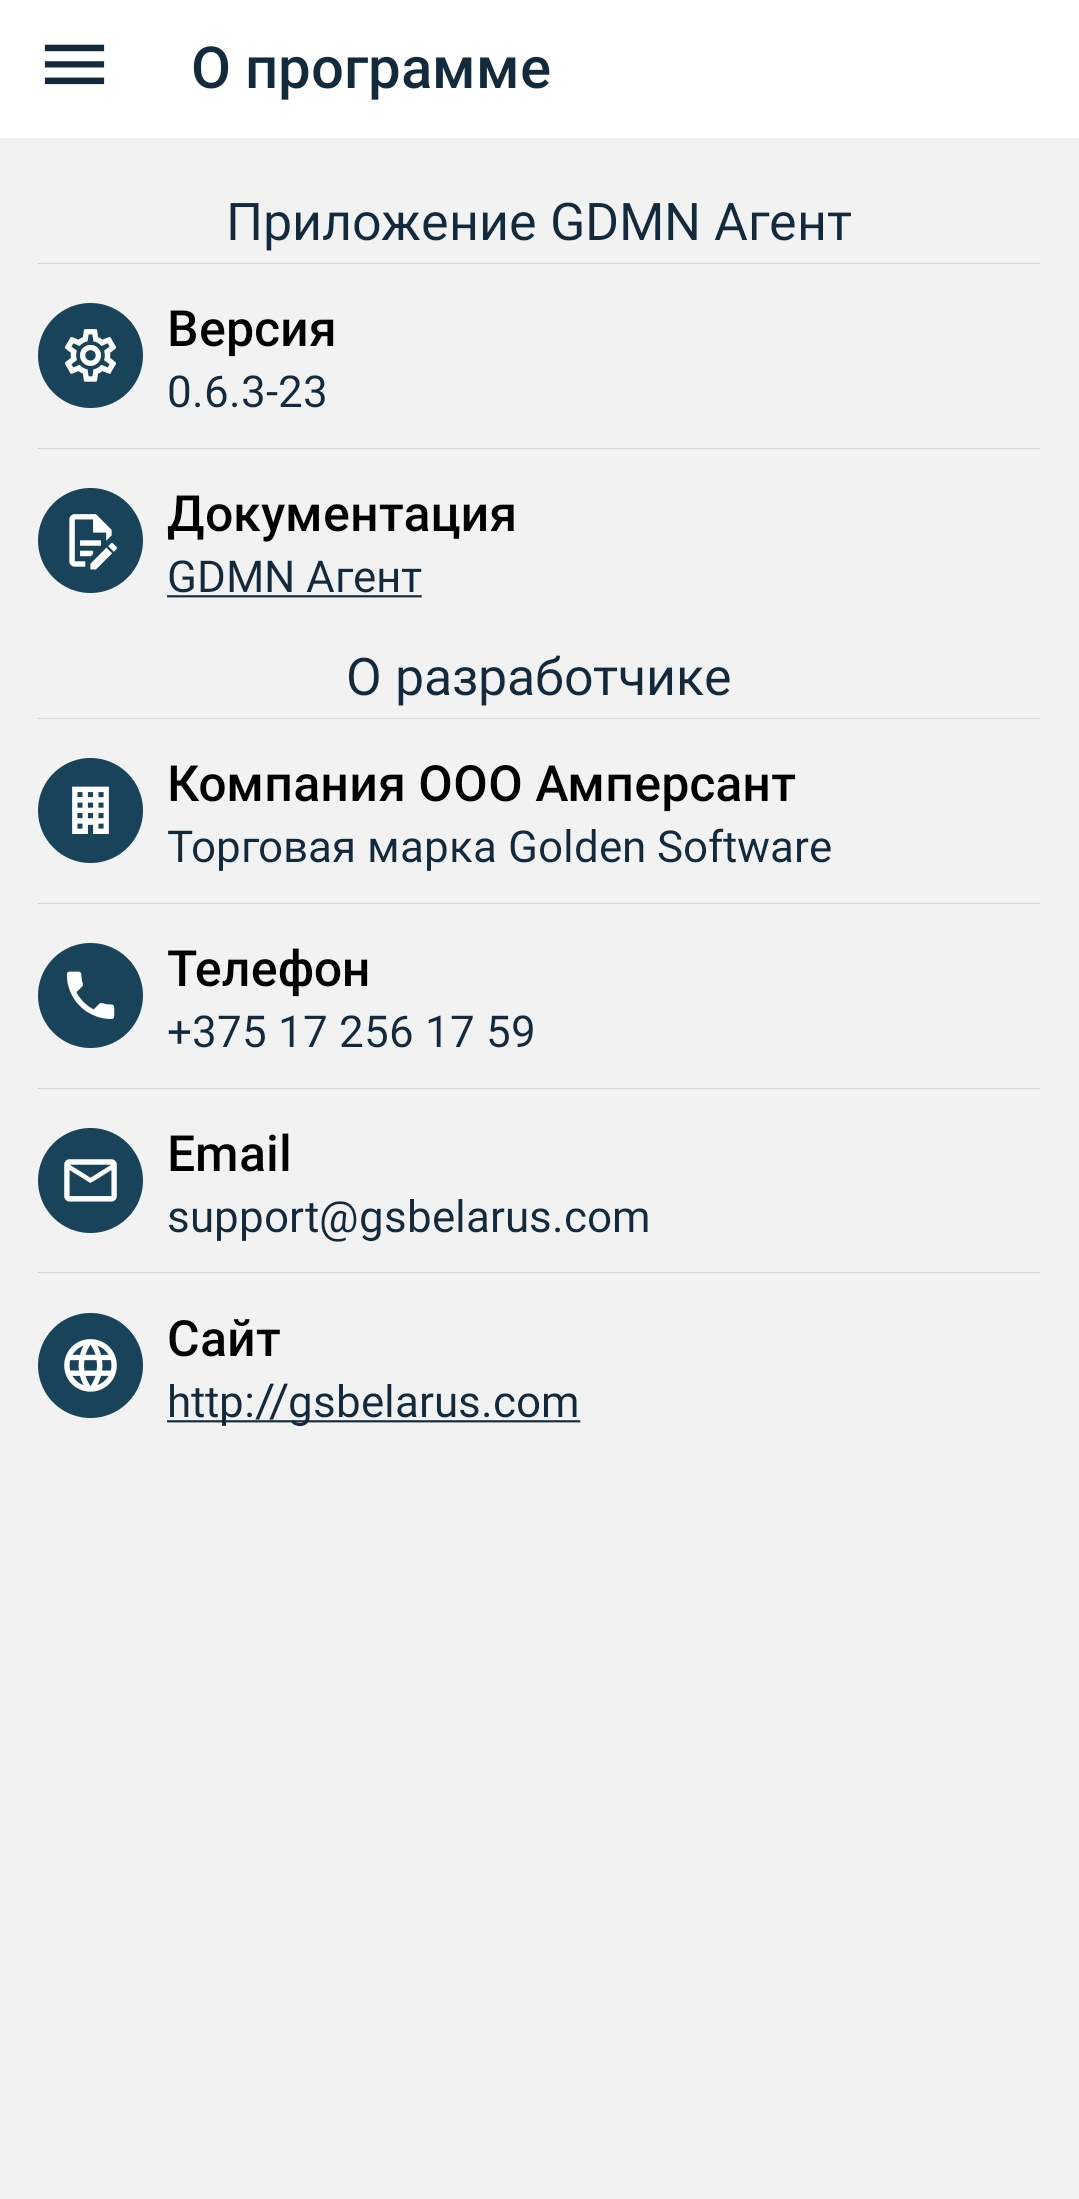
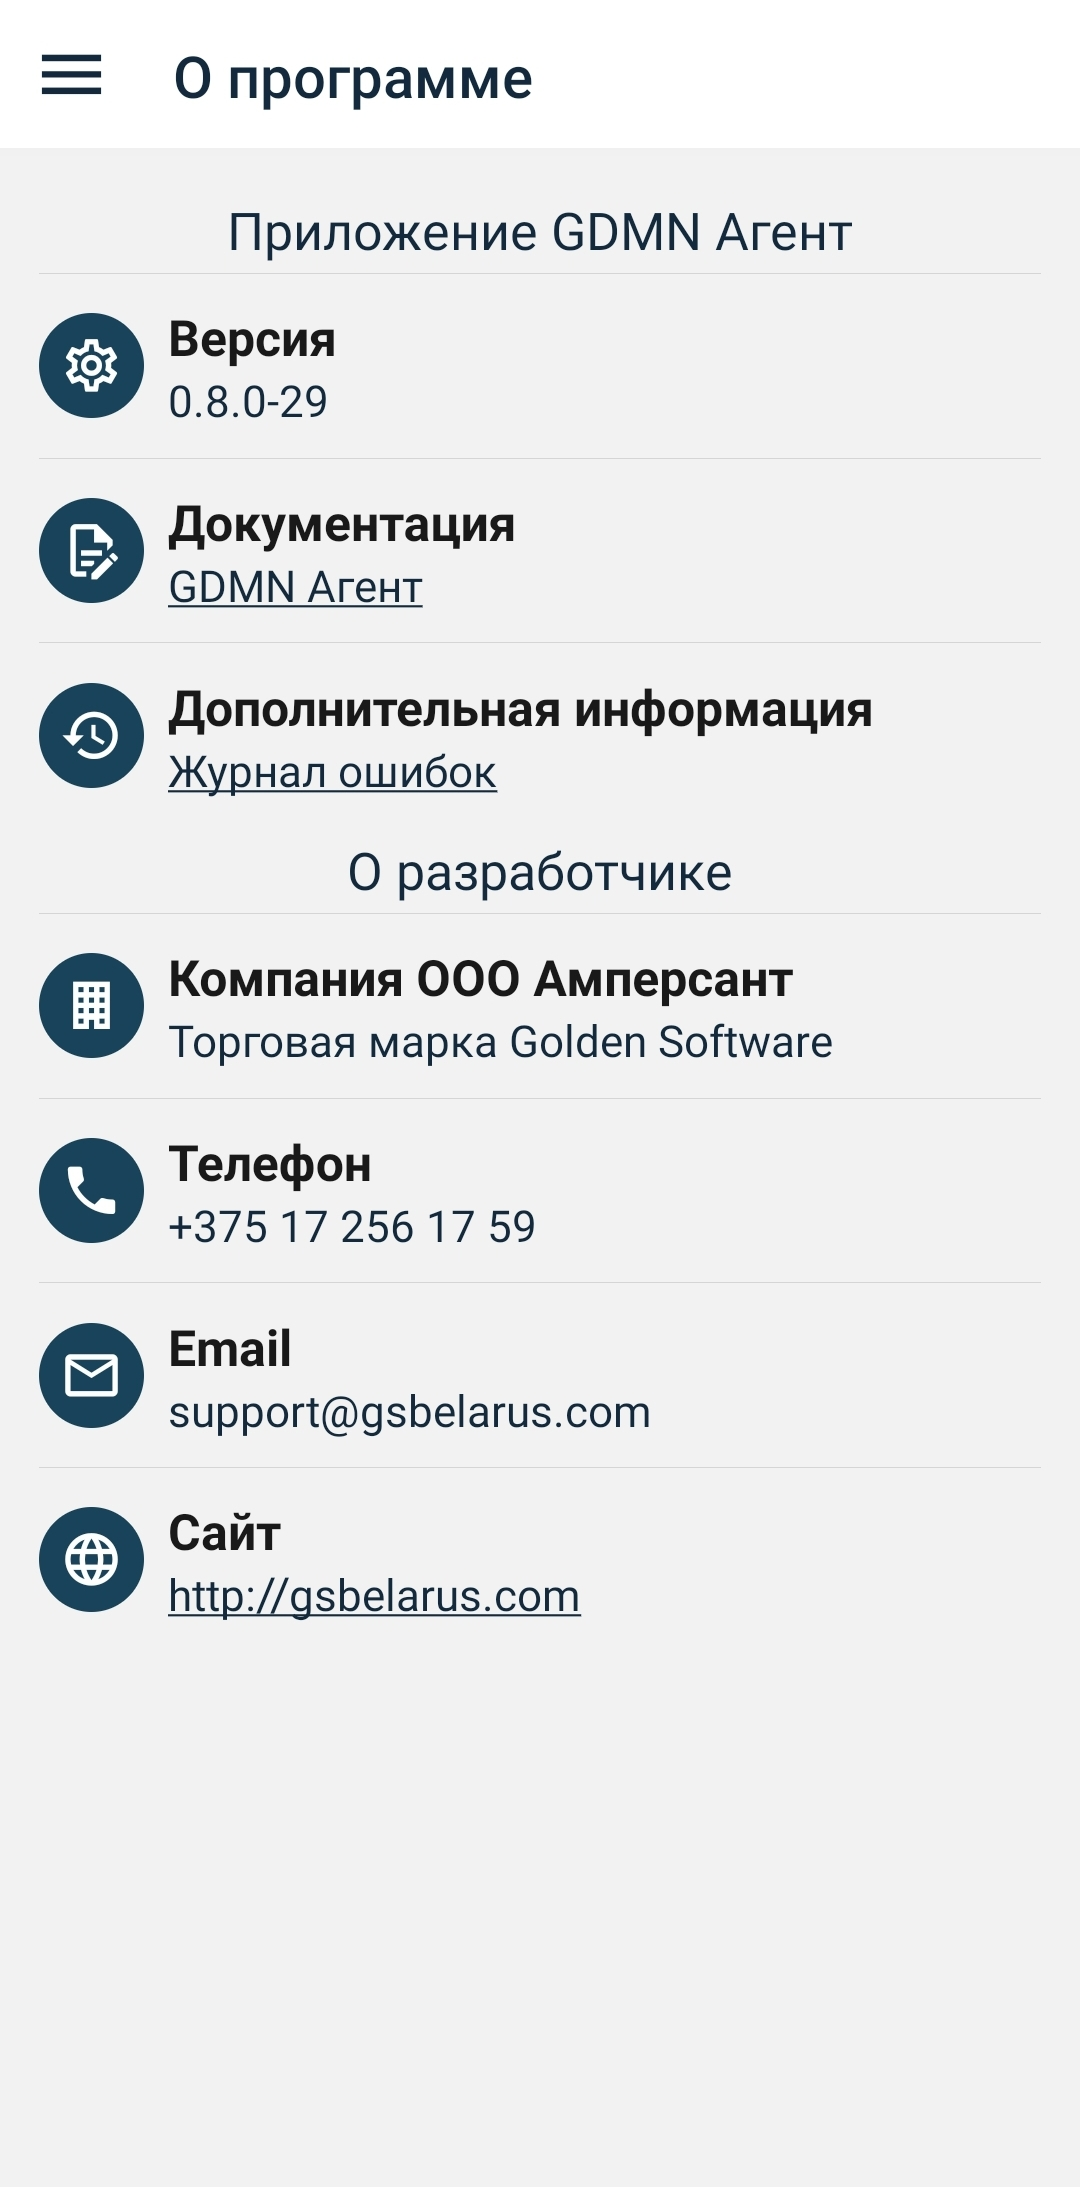
changes docs

diff --git a/docs/gdmn-app-trade-agents/docs/README.md b/docs/gdmn-app-trade-agents/docs/README.md
@@ -595,8 +595,7 @@
 Поле **Склад магазин** необязательное для заполнения. Оно автоматически заполняется, если значение склада передается из ERP системы в настройки пользователя (можно просмотреть в окне **Профиль**).
 
 ## 12. О программе
-На данном экране можно узнать информацию о приложении и о контактных данных разработчика, перейдя по ссылке **Документация** ознакомиться с полным функционалом приложения.
-
+На данном экране можно узнать информацию о приложении и о контактных данных разработчика, перейдя по ссылке **Документация** ознакомиться с полным функционалом приложения. В журнале ошибок проверить ошибки.
 <img src="img/10.About/10.About.jpg" alt="drawing" height="400"/>
 
 ## 13. Значение иконок
